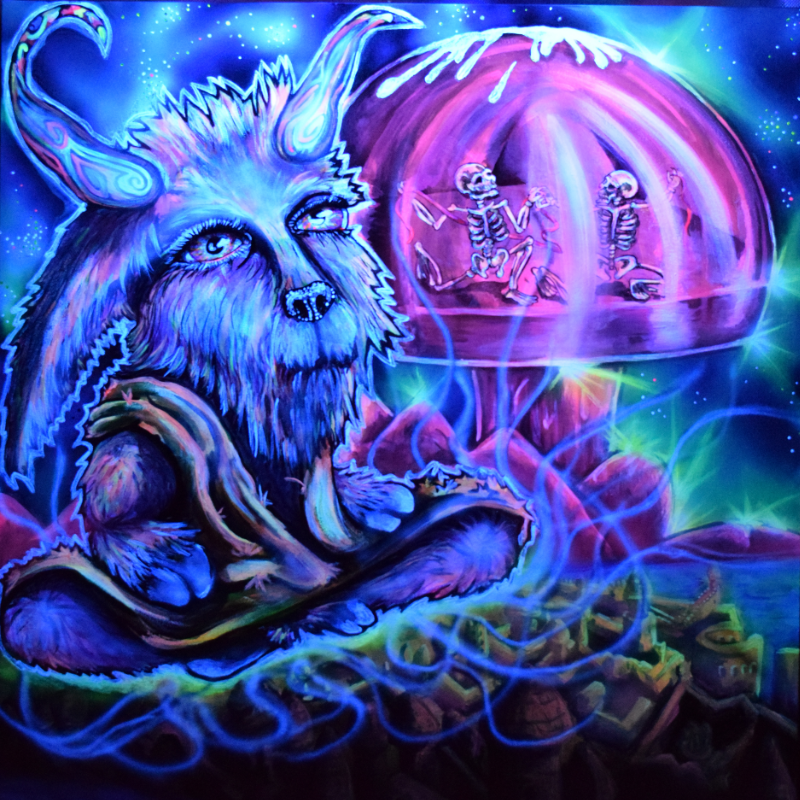
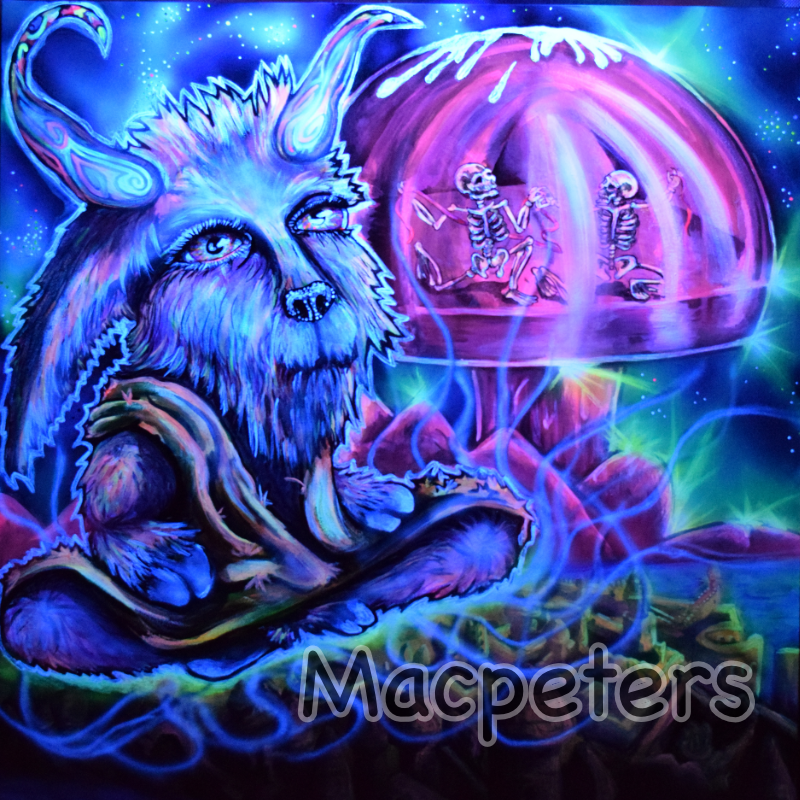
add new pics, watermarks

Changed region(s): [[0.375, 0.8125, 0.9375, 0.9375]]

diff --git a/components/art/fineArtImages.vue b/components/art/fineArtImages.vue
@@ -11,12 +11,14 @@
   import cosmicKitten from "../../assets/fineArt/macpeters_cosmicKitten.png";
   import cracking     from "../../assets/fineArt/macpeters_crackingUnderThePressure.png";
   import eagerness    from "../../assets/fineArt/macpeters_eagerness.png";
+  import eyeOfStorm    from "../../assets/fineArt/macpeters_eyeOfStorm.png";
   import fascination  from "../../assets/fineArt/macpeters_fascination.png";
   import gratitude    from "../../assets/fineArt/macpeters_gratitude.png";
   import lovebird     from "../../assets/fineArt/macpeters_loveBird.png";
   import maskedFear   from "../../assets/fineArt/macpeters_maskedFear.png";
   import mischeif     from "../../assets/fineArt/macpeters_mischeif.png";
   import monsterball  from "../../assets/fineArt/macpeters_monsterball.png";
+  import selfPortrait     from "../../assets/fineArt/macpeters_selfPortrait.png";
   import shpongle     from "../../assets/fineArt/macpeters_shpongle.png";
   import starbird     from "../../assets/fineArt/macpeters_starBird.png";
   import stubborn     from "../../assets/fineArt/macpeters_stubbornResentment.png";
@@ -26,12 +28,14 @@
   import cosmicKitten_thumb from "../../assets/fineArt/thumbnails/macpeters_cosmicKitten.png";
   import cracking_thumb     from "../../assets/fineArt/thumbnails/macpeters_crackingUnderThePressure.png";
   import eagerness_thumb    from "../../assets/fineArt/thumbnails/macpeters_eagerness.png";
+  import eyeOfStorm_thumb    from "../../assets/fineArt/thumbnails/macpeters_eyeOfStorm.jpg";
   import fascination_thumb  from "../../assets/fineArt/thumbnails/macpeters_fascination.png";
   import gratitude_thumb    from "../../assets/fineArt/thumbnails/macpeters_gratitude.png";
   import lovebird_thumb     from "../../assets/fineArt/thumbnails/macpeters_loveBird.png";
   import maskedFear_thumb   from "../../assets/fineArt/thumbnails/macpeters_maskedFear.png";
   import mischeif_thumb     from "../../assets/fineArt/thumbnails/macpeters_mischeif.png";
   import monsterball_thumb  from "../../assets/fineArt/thumbnails/macpeters_monsterball.png";
+  import selfPortrait_thumb from "../../assets/fineArt/thumbnails/macpeters_selfPortrait.jpg";
   import shpongle_thumb     from "../../assets/fineArt/thumbnails/macpeters_shpongle.png";
   import starbird_thumb     from "../../assets/fineArt/thumbnails/macpeters_starBird.png";
   import stubborn_thumb     from "../../assets/fineArt/thumbnails/macpeters_stubbornResentment.png";
@@ -47,12 +51,28 @@
       return {
         images: [
           {
+            image: selfPortrait,
+            thumb: selfPortrait_thumb,
+            title: "Self Portrait",
+            subtitle: "18x18 UV Acrylic on canvas",
+            description: "Self portrait, painted at COSM, 2018",
+            keywords: base_keywords + 'self-portrait, mushrooms, squatting man, plants, paintbrushes, gargoyles, bubbles'
+          },
+          {
             image: cosmicKitten,
             thumb: cosmicKitten_thumb,
             title: "Cosmic Kitten",
             subtitle: "24x24 UV Acrylic on canvas",
             description: "Kitten enjoys the journey, the spectacle, the festival of creation through space and time",
             keywords: base_keywords + 'space, cosmos, kitten, cosmic, galaxies, universe, festival, edm, trippy, cat, kitten, space cat'
+          },
+          {
+            image: eyeOfStorm,
+            thumb: eyeOfStorm_thumb,
+            title: "Be the Eye of Your Stomr",
+            subtitle: "18x18 UV Acrylic on canvas",
+            description: "Stoic and calm, the frog sees the storm, is in the storm, but is not of the storm",
+            keywords: base_keywords + 'frog, tornado, storm, stoic, composed, calm of the storm, eye of the storm, calm within'
           },
           {
             image: baphomet,

diff --git a/components/art/fineUvArt.vue b/components/art/fineUvArt.vue
@@ -11,10 +11,12 @@
   import cosmicKitten_uv  from "../../assets/fineArtUv/macpeters_cosmicKitten_uv.png";
   import cracking_uv      from "../../assets/fineArtUv/macpeters_cracking_uv.png";
   import eagerness_uv     from "../../assets/fineArtUv/macpeters_eagerness_uv.png";
+  import eyeOfStorm_uv    from "../../assets/fineArtUv/macpeters_eyeOfStorm_uv.png";
   import fascination_uv   from "../../assets/fineArtUv/macpeters_fascination_uv.png";
   import gratitude_uv     from "../../assets/fineArtUv/macpeters_gratitude_uv.png";
   import maskedFear_uv    from "../../assets/fineArtUv/macpeters_maskedFear_uv.png";
   import mischief_uv      from "../../assets/fineArtUv/macpeters_mischeif_uv.png";
+  import selfPortrait_uv  from "../../assets/fineArtUv/macpeters_selfPortrait_uv.png";
   import shpongle_uv      from "../../assets/fineArtUv/macpeters_shpongle_uv.png";
   import stubborn_uv      from "../../assets/fineArtUv/macpeters_stubbornResentment_uv.png";
   // Thumbs
@@ -23,10 +25,12 @@
   import cosmicKitten_uv_thumb  from "../../assets/fineArtUv/thumbnails/macpeters_cosmicKitten_uv.png";
   import cracking_uv_thumb      from "../../assets/fineArtUv/thumbnails/macpeters_cracking_uv.png";
   import eagerness_uv_thumb     from "../../assets/fineArtUv/thumbnails/macpeters_eagerness_uv.png";
+  import eyeOfStorm_uv_thumb    from "../../assets/fineArtUv/thumbnails/macpeters_eyeOfStorm_uv.png";
   import fascination_uv_thumb   from "../../assets/fineArtUv/thumbnails/macpeters_fascination_uv.png";
   import gratitude_uv_thumb     from "../../assets/fineArtUv/thumbnails/macpeters_gratitude_uv.png";
   import maskedFear_uv_thumb    from "../../assets/fineArtUv/thumbnails/macpeters_maskedFear_uv.png";
   import mischief_uv_thumb      from "../../assets/fineArtUv/thumbnails/macpeters_mischief_uv.png";
+  import selfPortrait_uv_thumb  from "../../assets/fineArtUv/thumbnails/macpeters_selfPortrait_uv.jpg";
   import shpongle_uv_thumb      from "../../assets/fineArtUv/thumbnails/macpeters_shpongle_uv.png";
   import stubborn_uv_thumb      from "../../assets/fineArtUv/thumbnails/macpeters_stubbornResentment_uv.png"; 
   // Components
@@ -41,12 +45,28 @@
       return {
         images: [
           {
+            image: selfPortrait_uv,
+            thumb: selfPortrait_uv_thumb,
+            title: "Self Portrait",
+            subtitle: "18x18 UV Acrylic on canvas",
+            description: "Self Portrait painted at COSM, 2018",
+            keywords: base_keywords + 'self-portrait, mushrooms, squatting man, plants, paintbrushes, gargoyles, bubbles'
+          },
+          {
             image: cosmicKitten_uv,
             thumb: cosmicKitten_uv_thumb,
             title: "Cosmic Kitten",
             subtitle: "24x24 UV Acrylic on canvas",
             description: "Kitten enjoys the journey, the spectacle, the festival of creation through space and time",
             keywords: base_keywords + 'space, cosmos, kitten, cosmic, galaxies, universe, festival, edm, trippy, cat, kitten, space cat'
+          },
+          {
+            image: eyeOfStorm_uv,
+            thumb: eyeOfStorm_uv_thumb,
+            title: "Be the Eye of Your Storm",
+            subtitle: "18x18 UV Acrylic on canvas",
+            description: "Stoic and calm, the frog sees the storm, is in the storm, but is not of the storm",
+            keywords: base_keywords + 'frog, tornado, storm, stoic, composed, calm of the storm, eye of the storm, calm within'
           },
           {
             image: shpongle_uv,

diff --git a/components/art/imageList.vue b/components/art/imageList.vue
@@ -61,6 +61,9 @@ export default {
   }
 
   /* Featured Image */
+  h4 {
+    font-size: 16px;
+  }
   .left-column {
     width: 50%;
     float: left
@@ -82,6 +85,7 @@ export default {
   }
   .keywords {
     color: #bbb;
+    font-size: 12px;
   }
 
   .thumbnail {
